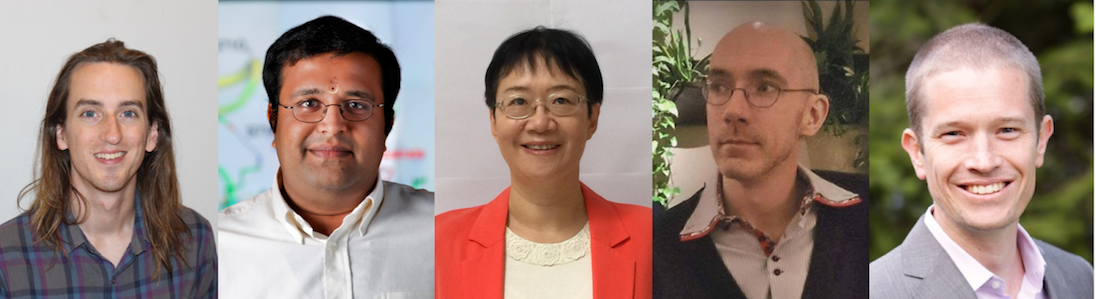
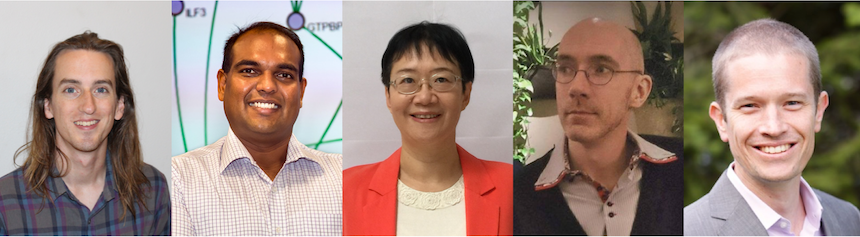
Updated speakers and added more titles.

diff --git a/program.html b/program.html
@@ -68,11 +68,13 @@
                                     </tr>
                                     <tr>
                                         <td>2:30 - 2:50pm</td>
-                                        <td><strong>Dr. Arvind Ramanathan</strong>, Oak Ridge National Laboratory</td>
+                                        <td><strong>Dr. Rangan Sukumar</strong>, Cray Inc.<br />
+                                        <em style="padding-left: 20px;">Data Science Success Stories Using Open Health Data: From Fraud to Finding New Hypotheses</em></td>
                                     </tr>
                                     <tr>
                                         <td>2:50 - 3:10pm</td>
-                                        <td><strong>Jake Mannix</strong>, Lucidworks</td>
+                                        <td><strong>Jake Mannix</strong>, Lucidworks<br />
+                                        <em style="padding-left: 20px;">Searchhub: Apache Listserv Archives and Tools to Analyze Them</em></td>
                                     </tr>
                                     <tr style="border-bottom: 1px solid #000;">
                                         <td>3:10 - 3:30pm</td>

diff --git a/speakers.html b/speakers.html
@@ -73,7 +73,7 @@
 											<p>
 											<ul style="list-style: disc inside none; margin-left: 30px;">
 												<li>Jim Crist (Software Engineer, Continuum Analytics)</li>
-												<li>Dr. Arvind Ramanathan (Oak Ridge National Laboratory)</li>
+												<li>Dr. Rangan Sukumar (Cray Inc.)</li>
 												<li>Prof. Ling Liu (Georgia Institute of Technology)</li>
 												<li>Jake Mannix (Lead Data Engineer, Lucidworks)</li>
                                                 <li>Dr. Jake VanderPlas (Director of Research in Physical Sciences, University of Washington eScience Institute)</li>
